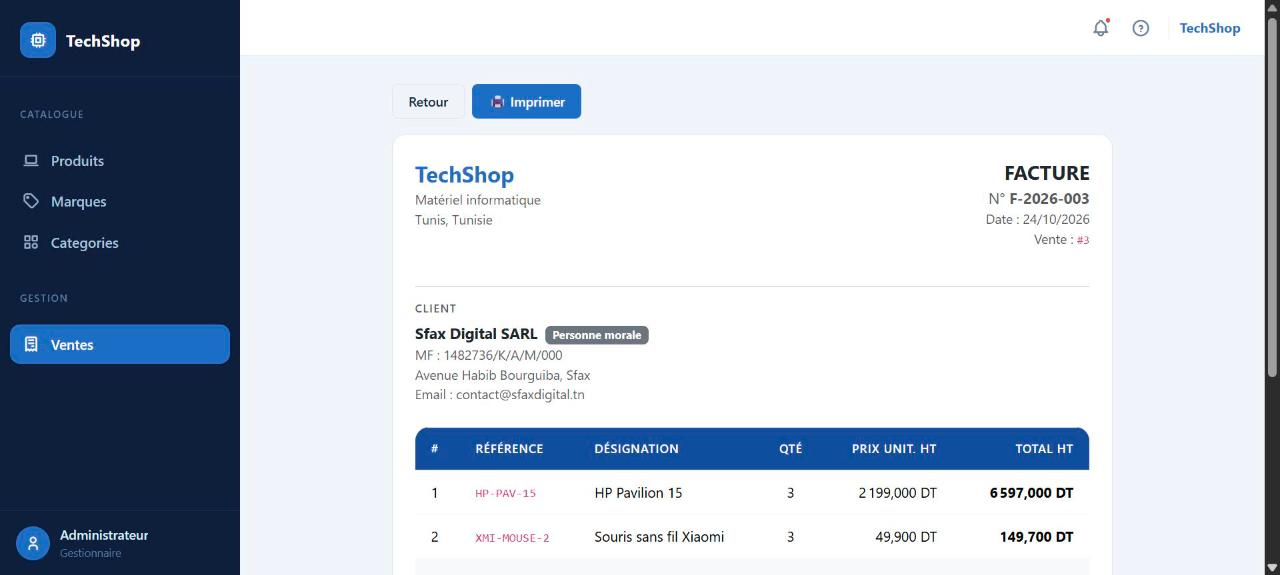
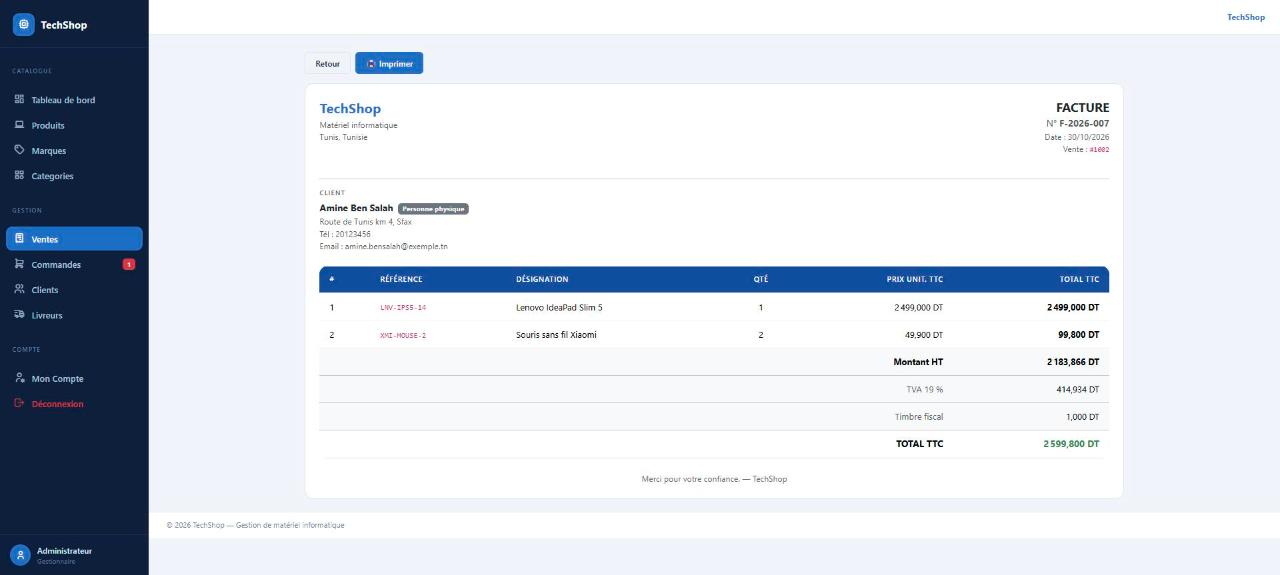
docs: nouvelles captures (boutique en ligne, commandes, tableau de bord, facture TTC)

diff --git a/README.md b/README.md
@@ -13,13 +13,25 @@ Application web **ASP.NET Core MVC (.NET 10)** pour un magasin de matériel info
 
 ## Aperçu
 
-![Facture générée : client moral, TVA 19 %, timbre fiscal et total TTC](docs/captures/facture-totaux.jpg)
+### Boutique en ligne (client)
 
-| Catalogue des produits | Fiche produit |
+| Catalogue | Fiche produit |
 | --- | --- |
-| ![Liste des produits](docs/captures/produits.jpg) | ![Fiche produit](docs/captures/produit-details.jpg) |
-| **Ventes et statut de facturation** | **En-tête de facture** |
-| ![Liste des ventes](docs/captures/ventes.jpg) | ![Facture](docs/captures/facture.jpg) |
+| ![Catalogue de la boutique](docs/captures/boutique.jpg) | ![Fiche produit](docs/captures/produit.jpg) |
+| **Panier (prix TTC)** | **Suivi d'une commande livrée** |
+| ![Panier](docs/captures/panier.jpg) | ![Détail d'une commande côté client](docs/captures/commande-client.jpg) |
+
+### Back-office (administrateur)
+
+![Tableau de bord](docs/captures/tableau-de-bord.jpg)
+
+| Commandes en ligne | Validation d'une commande (affectation d'un livreur) |
+| --- | --- |
+| ![Commandes en ligne](docs/captures/commandes.jpg) | ![Détail d'une commande](docs/captures/commande-admin.jpg) |
+| **Facture : HT déduit du prix TTC, TVA 19 %, timbre fiscal** | **Produits et stock** |
+| ![Facture](docs/captures/facture.jpg) | ![Liste des produits](docs/captures/produits.jpg) |
+
+*Captures réalisées avec des données de démonstration fictives.*
 
 ## Fonctionnalités
 
